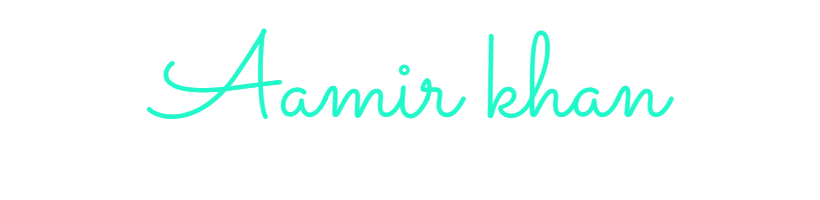
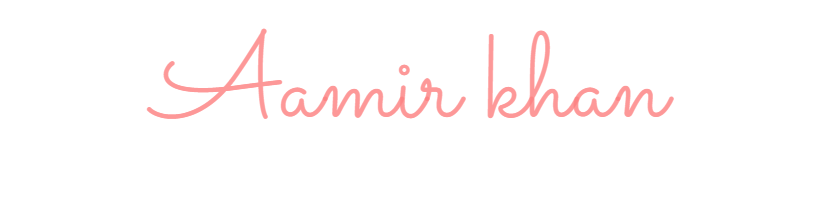
portfolio completed

Changed region(s): [[0.1829, 0.15, 0.8232, 0.6], [0.1829, 0.54, 0.2439, 0.6], [0.4878, 0.33, 0.5183, 0.39]]

diff --git a/src/app/about/page.jsx b/src/app/about/page.jsx
@@ -41,7 +41,7 @@ const AboutPage = () => {
         {/* BIOGRAPHY SIGN */}
 
         <div className='w-fit self-end'>
-        <Image src="/signature.png" alt="my signature" width={300} height={10} />
+        <Image src="/Signature.png" alt="my signature" width={300} height={10} />
         </div>
          {/* BIOGRAPHY SVG  */}
          <motion.svg initial={{opacity: 0.2, y:0}} animate={{opacity: 1, y: "10px"}} transition={{repeat: Infinity, duration: 3, ease: "easeInOut"}} viewBox="0 0 24 24" fill="none" xmlns="http://www.w3.org/2000/svg" stroke="#e2e8f0" width={50} height={50}><g id="SVGRepo_bgCarrier" stroke-width="0"></g><g id="SVGRepo_tracerCarrier" stroke-linecap="round" stroke-linejoin="round"></g><g id="SVGRepo_iconCarrier"> <path d="M5 15C5 16.8565 5.73754 18.6371 7.05029 19.9498C8.36305 21.2626 10.1435 21.9999 12 21.9999C13.8565 21.9999 15.637 21.2626 16.9498 19.9498C18.2625 18.6371 19 16.8565 19 15V9C19 7.14348 18.2625 5.36305 16.9498 4.05029C15.637 2.73754 13.8565 2 12 2C10.1435 2 8.36305 2.73754 7.05029 4.05029C5.73754 5.36305 5 7.14348 5 9V15Z" stroke="#f1f5f9" stroke-width="1.5" stroke-linecap="round" stroke-linejoin="round"></path> <path d="M12 6V14" stroke="#f1f5f9" stroke-width="1.5" stroke-linecap="round" stroke-linejoin="round"></path> <path d="M15 11L12 14L9 11" stroke="#f1f5f9" stroke-width="1.5" stroke-linecap="round" stroke-linejoin="round"></path> </g></motion.svg >
@@ -100,7 +100,7 @@ const AboutPage = () => {
         {/* JOB DESC  */}
         <div className="p-2 text-sm italic">Lorem ipsum dolor sit amet consectetur adipisicing elit. Vel, voluptatem?</div>
         {/* JOB DATE  */}
-        <div className="p-2 text-sm font-semibold text-indigo-500">Dec-2023 - March-2024</div>
+        <div className="p-2 text-sm font-semibold text-red-400">Dec-2023 - March-2024</div>
         {/* JOB COMPANY  */}
         <div className="p-2 rounded bg-white text-black text-sm font-semibold w-fit">Hiring Mine Pvt Ltd.</div>
         </div>
@@ -109,7 +109,7 @@ const AboutPage = () => {
         {/* LINE  */}
         <div className="w-1 h-full bg-gray-300 relative">
         {/* LINE CIRCLE  */}
-        <div className="absolute w-5 h-5 rounded-full ring-4 ring-indigo-400 -left-2 bg-white"></div>
+        <div className="absolute w-5 h-5 rounded-full ring-4 ring-red-400 -left-2 bg-white"></div>
         </div>
         </div>
         {/* RIGHT  */}
@@ -124,7 +124,7 @@ const AboutPage = () => {
         {/* LINE  */}
         <div className="w-1 h-full bg-gray-300 relative">
         {/* LINE CIRCLE  */}
-        <div className="absolute w-5 h-5 rounded-full ring-4 ring-indigo-400 -left-2 bg-white"></div>
+        <div className="absolute w-5 h-5 rounded-full ring-4 ring-red-400 -left-2 bg-white"></div>
         </div>
         </div>
         {/* RIGHT  */}
@@ -134,7 +134,7 @@ const AboutPage = () => {
         {/* JOB DESC  */}
         <div className="p-2 text-sm italic">Lorem ipsum dolor sit amet consectetur adipisicing elit. Vel, voluptatem?</div>
         {/* JOB DATE  */}
-        <div className="p-2 text-sm font-semibold text-indigo-500">Dec-2023 - March-2024</div>
+        <div className="p-2 text-sm font-semibold text-red-400">Dec-2023 - March-2024</div>
         {/* JOB COMPANY  */}
         <div className="p-2 mx-1 rounded bg-white text-black text-sm font-semibold w-fit">Hiring Mine Pvt Ltd.</div>
         </div>
@@ -148,7 +148,7 @@ const AboutPage = () => {
         {/* JOB DESC  */}
         <div className="p-2 text-sm italic">Lorem ipsum dolor sit amet consectetur adipisicing elit. Vel, voluptatem?</div>
         {/* JOB DATE  */}
-        <div className="p-2 text-sm font-semibold text-indigo-500">Dec-2023 - March-2024</div>
+        <div className="p-2 text-sm font-semibold text-red-400">Dec-2023 - March-2024</div>
         {/* JOB COMPANY  */}
         <div className="p-2 rounded bg-white text-black text-sm font-semibold w-fit">Hiring Mine Pvt Ltd.</div>
         </div>
@@ -157,7 +157,7 @@ const AboutPage = () => {
         {/* LINE  */}
         <div className="w-1 h-full bg-gray-300 relative">
         {/* LINE CIRCLE  */}
-        <div className="absolute w-5 h-5 rounded-full ring-4 ring-indigo-400 -left-2 bg-white"></div>
+        <div className="absolute w-5 h-5 rounded-full ring-4 ring-red-400 -left-2 bg-white"></div>
         </div>
         </div>
         {/* RIGHT  */}

diff --git a/src/app/contact/page.jsx b/src/app/contact/page.jsx
@@ -1,30 +1,59 @@
 "use client"
-import React from 'react'
+import { useRef, useState } from 'react'
 import {motion} from "framer-motion"
+import emailjs from '@emailjs/browser';
 
-const text = "Say Hello"
 
- const ContactPage = () => {
+const ContactPage = () => {
+  const [success, setSuccess] = useState(false);
+  const [error, setError] = useState(false);
+  const text = "Say Hello"
+
+  const form = useRef();
+
+  const sendEmail = (e) => {
+    e.preventDefault();
+    setError(false);
+    setSuccess(false);
+
+    emailjs
+      .sendForm(process.env.NEXT_PUBLIC_SERVICE_ID, process.env.NEXT_PUBLIC_TEMPLATE_ID, form.current, {
+        publicKey: process.env.NEXT_PUBLIC_PUBLIC_KEY,
+      })
+      .then(
+        () => {
+          console.log('SUCCESS!');
+          setSuccess(true)
+          form.current.reset();
+        },
+        (error) => {
+          console.log('FAILED...', error.text);
+          setError(true)
+        },
+      );
+  };
   return (
-    <motion.div className="h-full text-black" initial={{y: "-200vh"}} animate={{y: "0%"}} transition={{duration: 1}}>
-    <div className="h-full flex flex-col lg:flex-row px-4 sm:px-8 md:px-12 lg:px-20 xl:px-48">
+    <motion.div className="h-full p-2 bg-white text-black" initial={{y: "-200vh"}} animate={{y: "0%"}} transition={{duration: 1}}>
+    <div className="h-full flex flex-col justify-start lg:flex-row  px-4 sm:px-8 md:px-12 lg:px-20 xl:px-48">
       {/* TEXT CONTAINER */}
-      <div className="h-1/2 lg:h-full lg:w-1/2 text-white flex items-center justify-center text-6xl">
+      <div className="h-1/4 lg:h-full lg:w-1/2 flex items-start md:items-center lg:items-center justify-center text-6xl mt-8 md:mt-0 lg:mt-0">
         <div>
           {text.split("").map((letter,index)=>(
-            <motion.span key={index} initial={{opacity: 0}} animate={{opacity:1}} transition={{duration: 3, repeat: Infinity, delay: index * 0.1}}>{letter}</motion.span>
+            <motion.span className='text-5xl md:text-6xl lg:text-7xl' key={index} initial={{opacity: 0}} animate={{opacity:1}} transition={{duration: 3, repeat: Infinity, delay: index * 0.1}}>{letter}</motion.span>
           ))}
         </div>
         😊
       </div>
       {/* FORM CONTAINER */}
-      <form className="h-1/2 lg:h-full lg:w-1/2 bg-gradient-to-t from-purple-100 to-red-50 rounded-md flex flex-col gap-8 justify-center p-24">
+      <form onSubmit={sendEmail} ref={form} className="h-3/4 lg:h-full lg:w-1/2 bg-gradient-to-t from-red-200 to-slate-300 rounded-md flex flex-col gap-8 justify-center p-12 md:p-24 lg:p-24">
         <span>Dear Aamir Khan,</span>
-        <textarea rows="6" className='bg-transparent border-b-2 border-b-black outline-none resize-none '/>
+        <textarea rows={6} name='user_message' className='bg-transparent border-b-2 border-b-black outline-none resize-none '/>
         <span>My mail address:</span>
-       <input type="text" className='bg-transparent border-b-2 border-b-black outline-none'/>
+       <input type="text" name='user_email' className='bg-transparent border-b-2 border-b-black outline-none'/>
         <span>Regards</span>
-        <button className='bg-purple-200 rounded font-semibold text-gray-600 p-4'>Send</button>
+        <button className='bg-purple-300 rounded font-semibold text-gray-600 p-4'>Send</button>
+        {success && <span className='text-green-600 font-semibold'>Your message has been sent successfully!</span>}
+        {error && <span className='text-red-600 font-semibold'>Something went wrong!</span>}
       </form>
     </div>
   </motion.div>

diff --git a/src/app/page.jsx b/src/app/page.jsx
@@ -1,6 +1,7 @@
 "use client"
 import Image from "next/image";
 import {motion} from "framer-motion"
+import Link from "next/link";
 
 const Homepage = () => {
   
@@ -19,8 +20,8 @@ const Homepage = () => {
     <p className="-mt-2 md:text-lg text-gray-400">Lorem ipsum dolor sit amet consectetur adipisicing elit. Fuga, amet nostrum veniam ex cupiditate dolore blanditiis minima veritatis velit perferendis.</p>
     {/* BUTTONS   */}
     <div className="w-full flex gap-4 -mt-5 ">
-      <button className="p-4 font-bold rounded-lg  bg-gradient-to-r from-purple-300 to-red-300 text-white">View My Work</button>
-      <button className="p-4 rounded-lg ring-1 ring-red-300 text-white">Contact Me</button>
+     <Link href={"/portfolio"}><button className="p-4 font-bold rounded-lg  bg-gradient-to-r from-purple-300 to-red-300 text-white">View My Work</button></Link>
+     <Link href={"/contact"}><button className="p-4 rounded-lg ring-1 ring-red-300 text-white">Contact Me</button></Link>
     </div>
     </div>
   </div>
